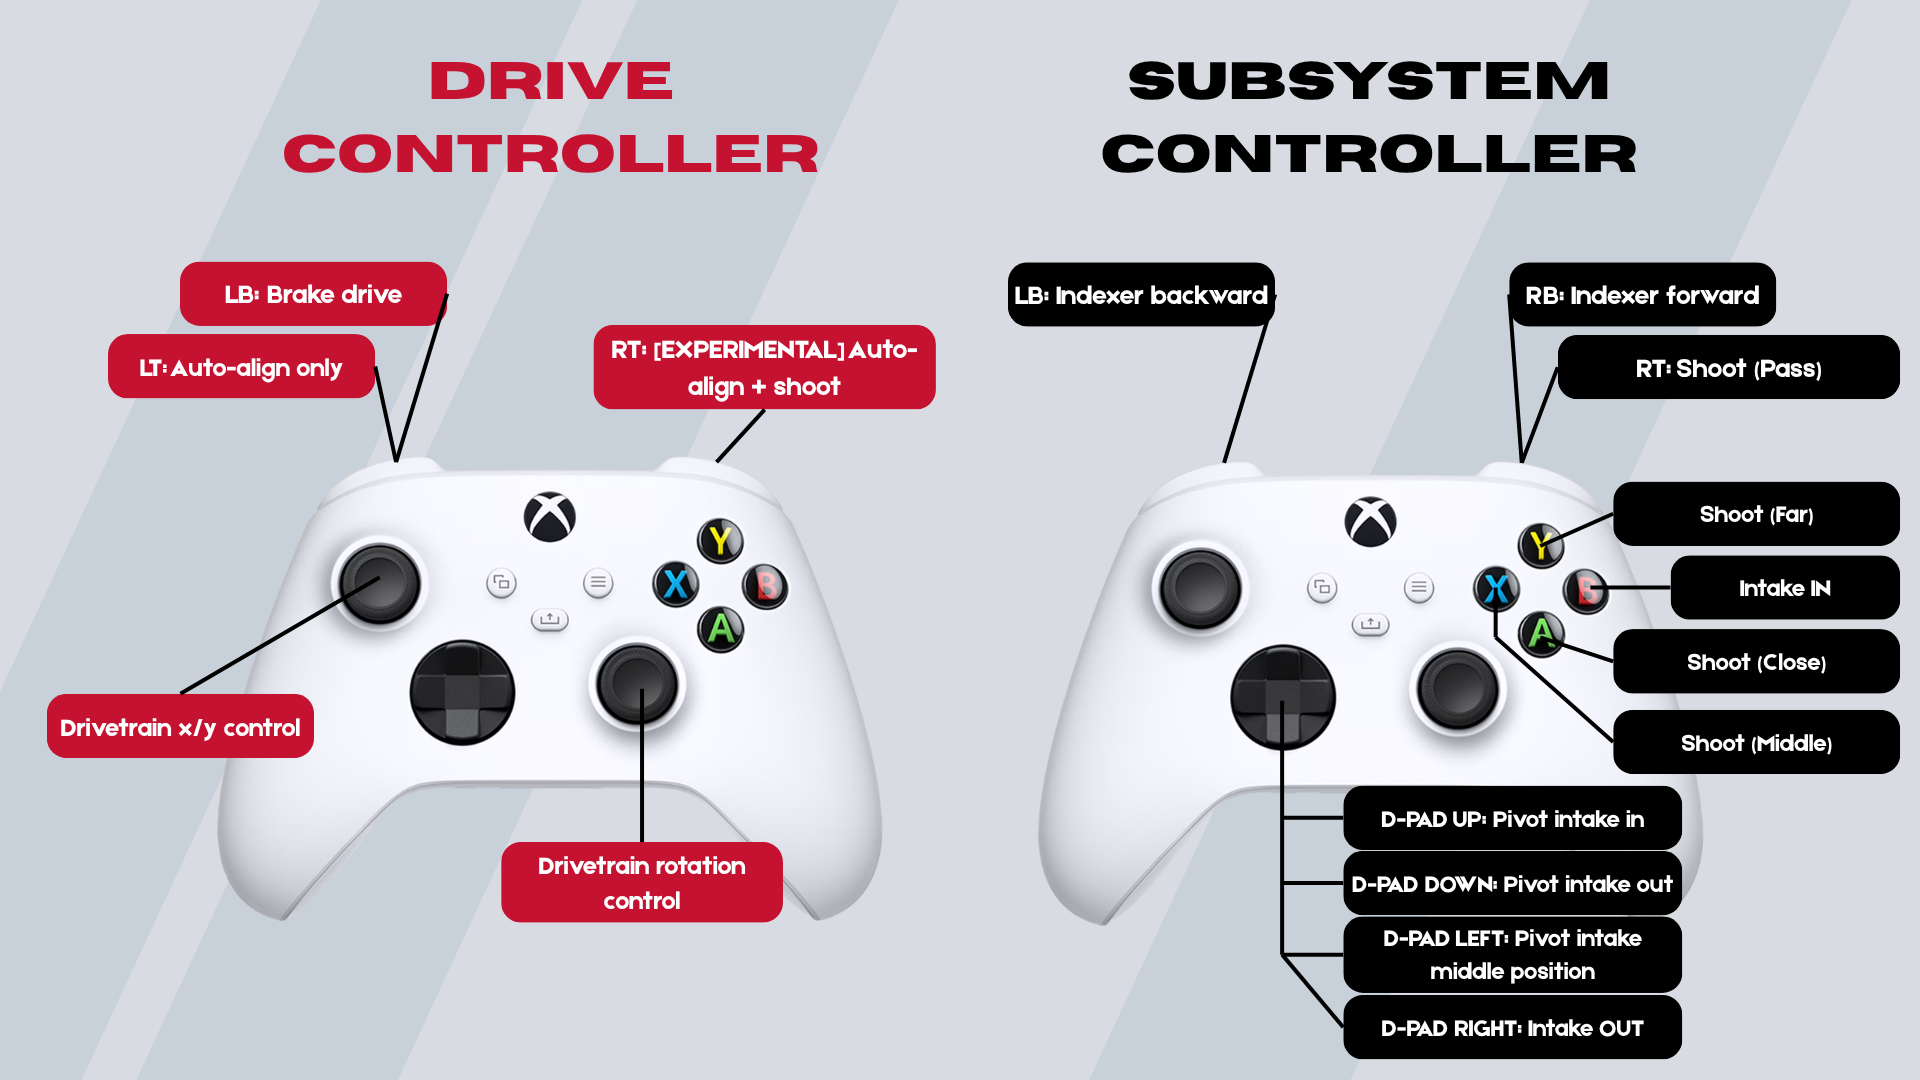
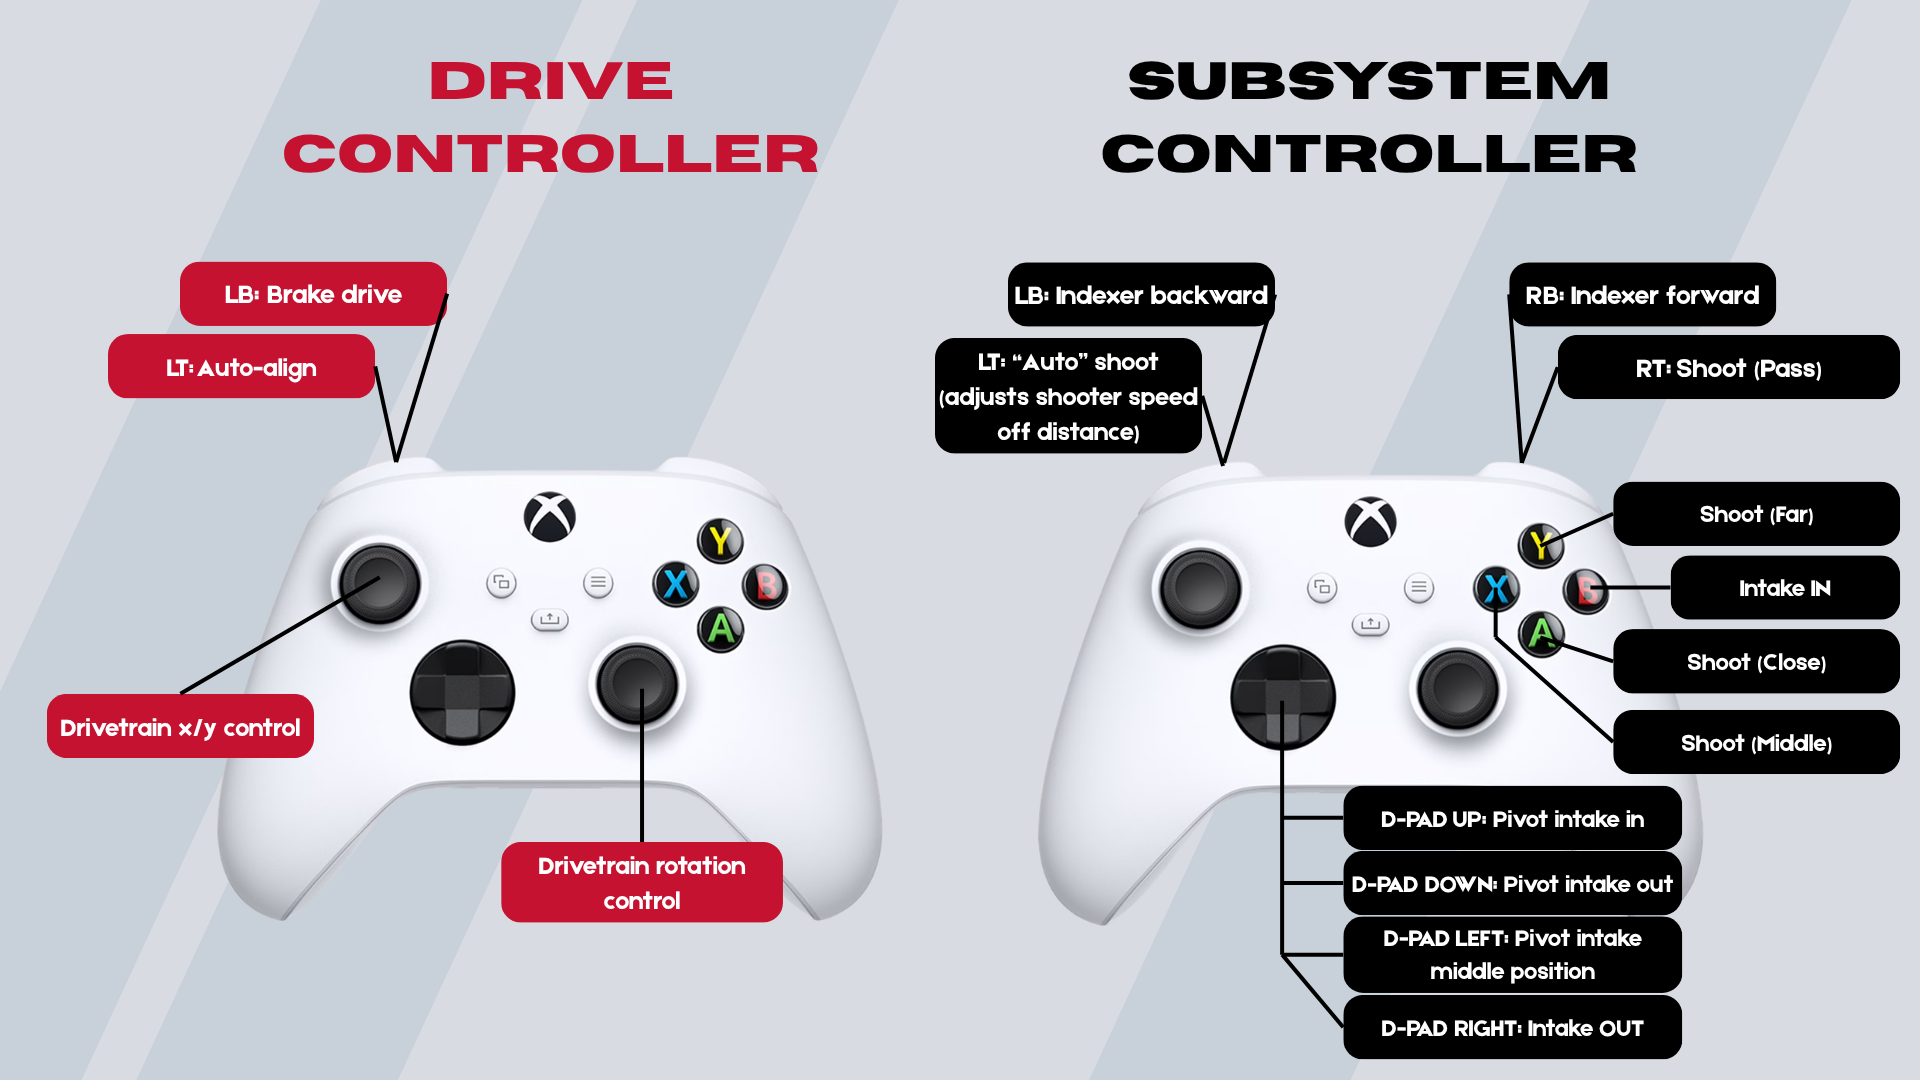
Balance auto align & auto shoot

Changed region(s): [[0.2812, 0.275, 0.6562, 0.4278], [0.0625, 0.3361, 0.1875, 0.3667]]

diff --git a/REBUILT-2026/src/main/java/frc/robot/RobotContainer.java b/REBUILT-2026/src/main/java/frc/robot/RobotContainer.java
@@ -123,35 +123,6 @@ public class RobotContainer {
           getJoystickValues(m_driveController::getLeftX, vy_limiter)
         ),
         Commands.run(() -> {
-          if (m_drivebase.isAutoAligned()) m_lights.setLEDMode(LEDMode.AlignedToTarget);
-          else m_lights.setLEDMode(LEDMode.SeesAprilTag); // using SeesAprilTag as false condition for auto-align LOL cuz its red
-        }, m_lights)
-      )
-    );
-
-    m_driveController.rightTrigger().whileTrue( // [EXPERIMENTAL] auto-align w/ dynamic shooting and free movement 
-      Commands.parallel(
-        m_drivebase.odometryAutoAlign(
-          getAllianceHubLocation(), 
-          getJoystickValues(m_driveController::getLeftY, vx_limiter),
-          getJoystickValues(m_driveController::getLeftX, vy_limiter),
-          true
-        ),
-        Commands.sequence(
-          Commands.deadline(
-            Commands.waitUntil(() -> m_drivebase.isAutoAligned()),
-            m_shooter.WarmUpShooter(m_shooter.getDynamicRPS(m_drivebase.getPoseSupplier(), getAllianceHubLocation()))
-          ),
-          m_shooter.ShootWithoutAprilTagCommand(m_shooter.getDynamicRPS(m_drivebase.getPoseSupplier(), getAllianceHubLocation()))
-        ),
-        Commands.sequence(
-          Commands.waitUntil(() ->
-            m_shooter.isShooterAtSpeed(m_shooter.getDynamicRPS(m_drivebase.getPoseSupplier(), getAllianceHubLocation())) 
-            && m_drivebase.isAutoAligned()
-          ),
-          m_indexer.runIndexerCommand(0.4)
-        ),
-        Commands.run(() -> {
           Pose2d position = m_drivebase.getPose();
           Translation2d fieldLocation = position.getTranslation();
           double distance = getAllianceHubLocation().get().getDistance(fieldLocation);
@@ -160,6 +131,38 @@ public class RobotContainer {
         }, m_lights)
       )
     );
+
+    // m_driveController.rightTrigger().whileTrue( // [EXPERIMENTAL] auto-align w/ dynamic shooting and free movement 
+    //   Commands.parallel(
+    //     m_drivebase.odometryAutoAlign(
+    //       getAllianceHubLocation(), 
+    //       getJoystickValues(m_driveController::getLeftY, vx_limiter),
+    //       getJoystickValues(m_driveController::getLeftX, vy_limiter),
+    //       true
+    //     ),
+    //     Commands.sequence(
+    //       Commands.deadline(
+    //         Commands.waitUntil(() -> m_drivebase.isAutoAligned()),
+    //         m_shooter.WarmUpShooter(m_shooter.getDynamicRPS(m_drivebase.getPoseSupplier(), getAllianceHubLocation()))
+    //       ),
+    //       m_shooter.ShootWithoutAprilTagCommand(m_shooter.getDynamicRPS(m_drivebase.getPoseSupplier(), getAllianceHubLocation()))
+    //     ),
+    //     Commands.sequence(
+    //       Commands.waitUntil(() ->
+    //         m_shooter.isShooterAtSpeed(m_shooter.getDynamicRPS(m_drivebase.getPoseSupplier(), getAllianceHubLocation())) 
+    //         && m_drivebase.isAutoAligned()
+    //       ),
+    //       m_indexer.runIndexerCommand(0.4)
+    //     ),
+    //     Commands.run(() -> {
+    //       Pose2d position = m_drivebase.getPose();
+    //       Translation2d fieldLocation = position.getTranslation();
+    //       double distance = getAllianceHubLocation().get().getDistance(fieldLocation);
+    //       if (m_drivebase.isAutoAligned() && m_shooter.isShooterInRange(distance)) m_lights.setLEDMode(LEDMode.AlignedToTarget);
+    //       else m_lights.setLEDMode(LEDMode.SeesAprilTag); // using SeesAprilTag as false condition for auto-align LOL cuz its red
+    //     }, m_lights)
+    //   )
+    // );
 
     //#endregion
 
@@ -192,6 +195,40 @@ public class RobotContainer {
       Commands.parallel(
         m_intake.getIntakeCommand(-0.7),
         m_lights.setLEDCommand(LEDMode.Intaking)
+      )
+    );
+
+    // auto-shoot (based off distance)
+    m_subsystemController.leftTrigger().whileTrue( 
+      Commands.parallel(
+        // m_drivebase.odometryAutoAlign(
+        //   getAllianceHubLocation(), 
+        //   getJoystickValues(m_driveController::getLeftY, vx_limiter),
+        //   getJoystickValues(m_driveController::getLeftX, vy_limiter),
+        //   true
+        // ),
+        Commands.sequence(
+          Commands.deadline(
+            Commands.waitUntil(() -> m_drivebase.isAutoAligned()),
+            m_shooter.WarmUpShooter(m_shooter.getDynamicRPS(m_drivebase.getPoseSupplier(), getAllianceHubLocation()))
+          ),
+          m_shooter.ShootWithoutAprilTagCommand(m_shooter.getDynamicRPS(m_drivebase.getPoseSupplier(), getAllianceHubLocation()))
+        )
+        // ,
+        // Commands.sequence(
+        //   Commands.waitUntil(() ->
+        //     m_shooter.isShooterAtSpeed(m_shooter.getDynamicRPS(m_drivebase.getPoseSupplier(), getAllianceHubLocation())) 
+        //     && m_drivebase.isAutoAligned()
+        //   ),
+        //   m_indexer.runIndexerCommand(0.4)
+        // ),
+        // Commands.run(() -> {
+        //   Pose2d position = m_drivebase.getPose();
+        //   Translation2d fieldLocation = position.getTranslation();
+        //   double distance = getAllianceHubLocation().get().getDistance(fieldLocation);
+        //   if (m_drivebase.isAutoAligned() && m_shooter.isShooterInRange(distance)) m_lights.setLEDMode(LEDMode.AlignedToTarget);
+        //   else m_lights.setLEDMode(LEDMode.SeesAprilTag); // using SeesAprilTag as false condition for auto-align LOL cuz its red
+        // }, m_lights)
       )
     );
 
